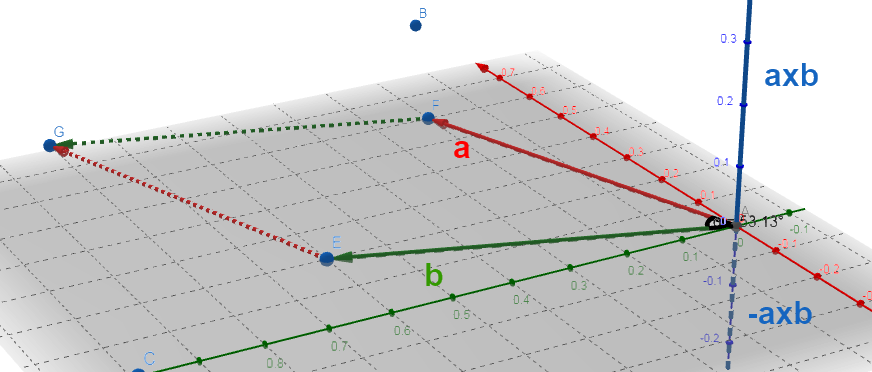
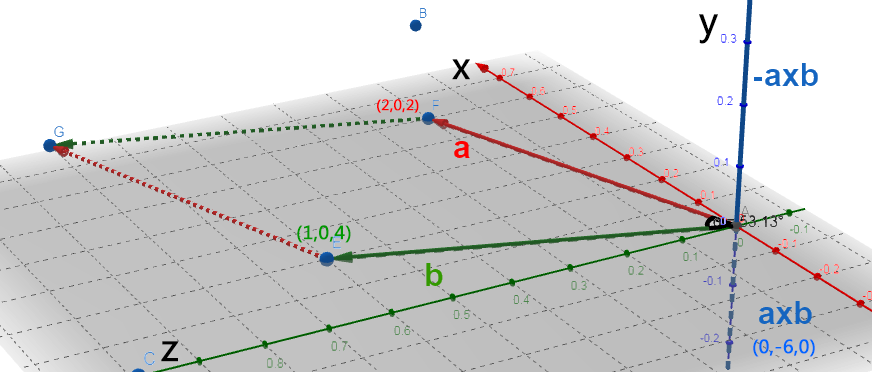
修正计算结果标注坐标系

diff --git a/_posts/2008-10-26-常见数学公式推导.md b/_posts/2008-10-26-常见数学公式推导.md
@@ -204,7 +204,17 @@ aXb = (ax,ay,az)X(bx,by,bz)=(aybz-azby,azbx-axbz,axby-aybx)
 
 叉积满足右手法则。不满足交换律axb ≠ bxa，而满足反交换律axb = - bxa。可以使用叉积的正负值来判断向量a，b的相对位置，即向量b是处于向量a的顺时针方向还是逆时针方向
 
-**简单的说: 点乘判断角度，叉乘判断方向** 
+a(2,0,2) X b(1,0,4) = (0,-6, 0)
+
+b在a的逆时针方向
+
+**简单的说: 点乘判断角度，叉乘判断方向**
+
+ 在Unity中（左手坐标系）判断目标在自己的左右方位可以使用下面的方法:
+
+ Vector3.Cross(transform.forward, target.position).y
+
+ 返回值为正时,目标在自己的右方,反之在自己的左方
 
 ![image](/img/pos_71.png)
 
